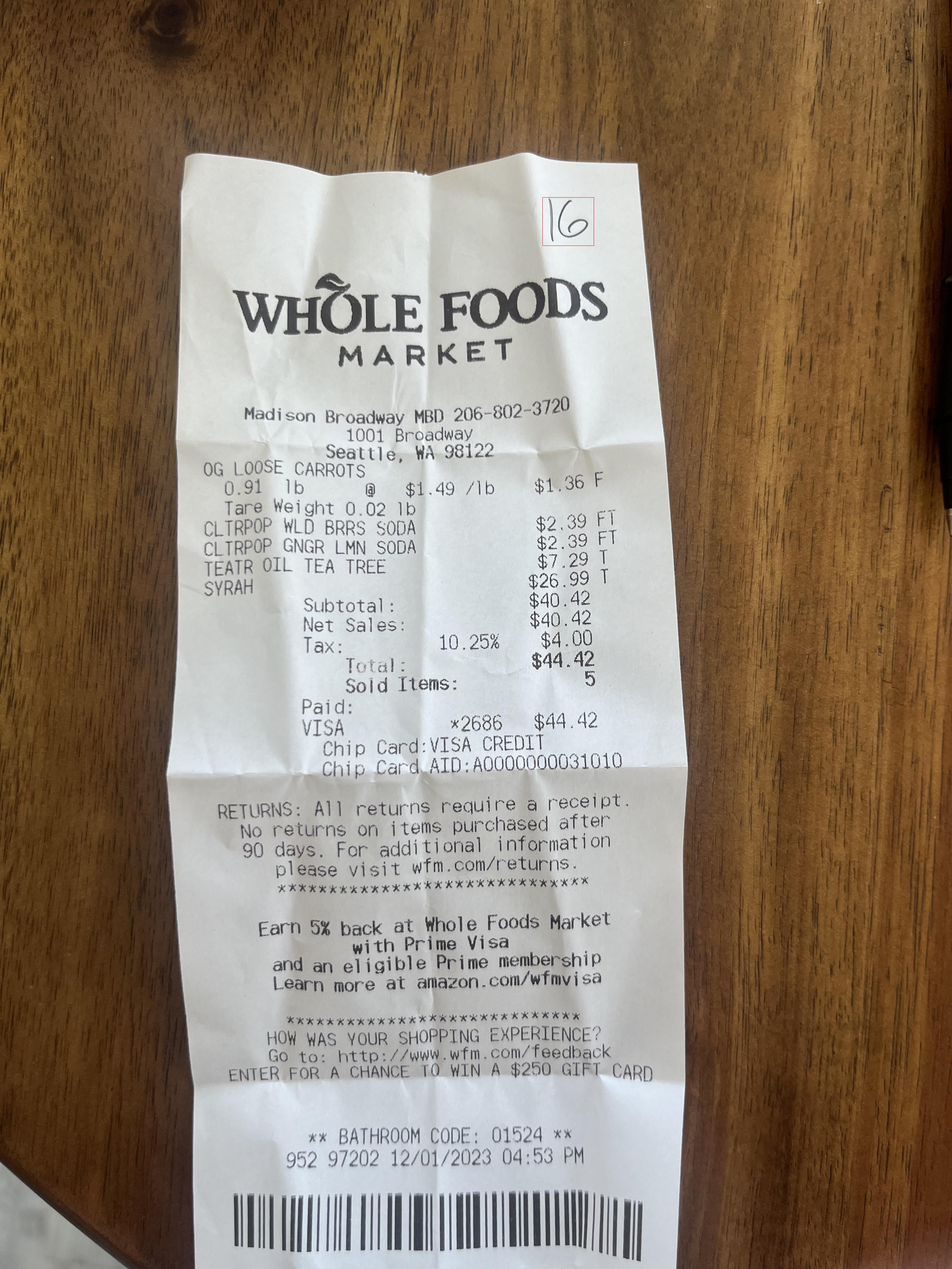
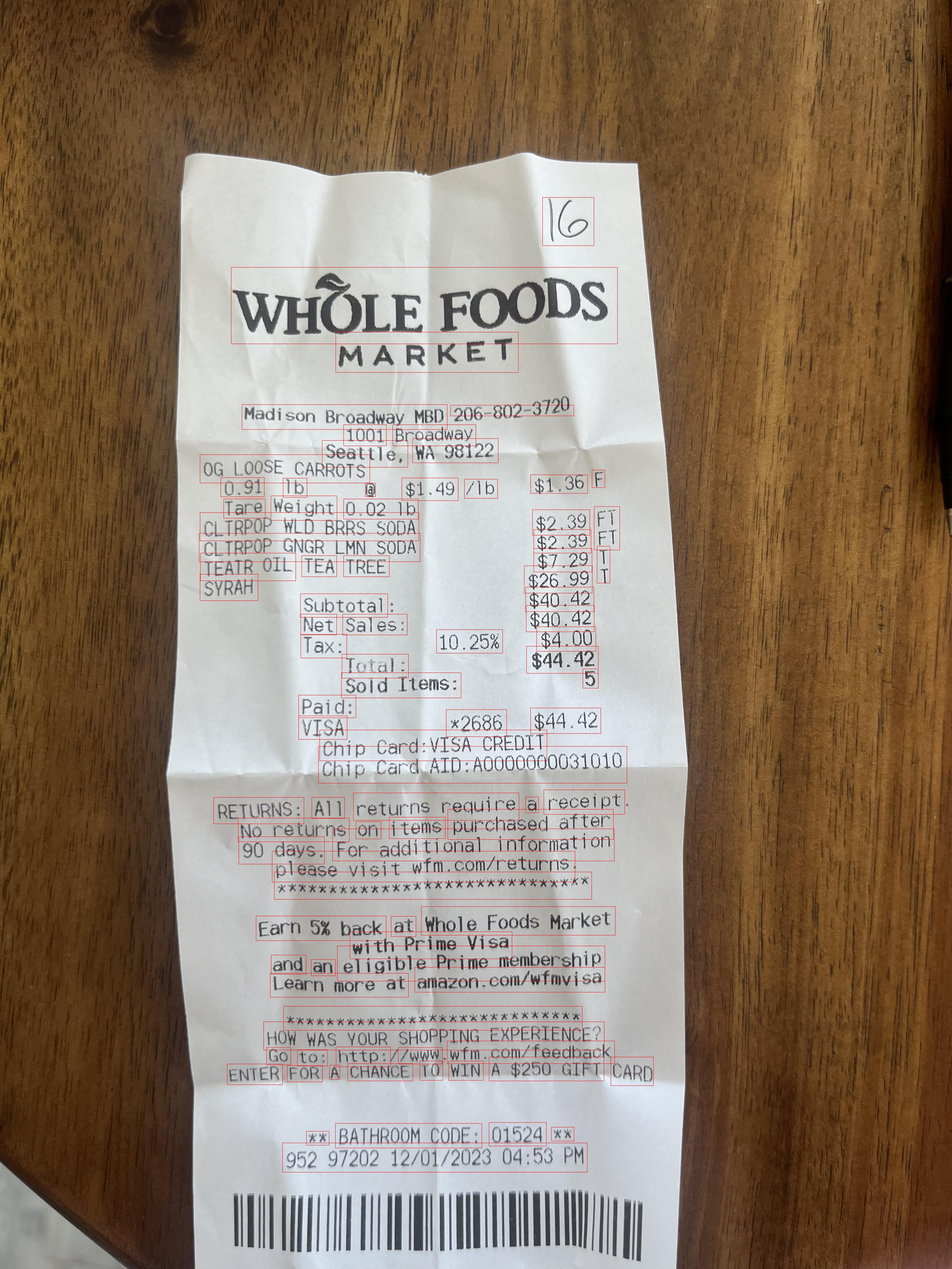
markup image with rectangles for all detected text

diff --git a/ocr_output.py b/ocr_output.py
@@ -3,32 +3,37 @@ import pandas as pd
 
 ocr = [([[1723, 627], [1886, 627], [1886, 780], [1723, 780]], 'I6', 0.6926023278564799), ([[734, 849], [1961, 849], [1961, 1092], [734, 1092]], 'WHOLE FOODS', 0.9912944037239646), ([[1066, 1055], [1646, 1055], [1646, 1183], [1066, 1183]], 'MA RKET', 0.9276532370298419), ([[768, 1285], [1420, 1285], [1420, 1364], [768, 1364]], 'Madi son Broadway MBD', 0.9078515581621903), ([[1091, 1349], [1227, 1349], [1227, 1416], [1091, 1416]], '1001', 0.9999945759773254), ([[1247, 1349], [1511, 1349], [1511, 1416], [1247, 1416]], 'Broadway', 0.7763214223013613), ([[1023, 1399], [1295, 1399], [1295, 1484], [1023, 1484]], 'Seattle,', 0.8221792681226774), ([[1310, 1393], [1582, 1393], [1582, 1470], [1310, 1470]], 'WA 98122', 0.7418562842124219), ([[635, 1444], [1174, 1444], [1174, 1534], [635, 1534]], 'OG LOOSE CARROTS', 0.7820302202819801), ([[1880, 1493], [1921, 1493], [1921, 1549], [1880, 1549]], 'F', 0.9987497663588307), ([[899, 1519], [975, 1519], [975, 1580], [899, 1580]], '1b', 0.5417117866716964), ([[1160, 1535], [1192, 1535], [1192, 1577], [1160, 1577]], '@@', 0.3166696462315215), ([[1276, 1518], [1455, 1518], [1455, 1590], [1276, 1590]], '$1.49', 0.9606942559631663), ([[1475, 1522], [1580, 1522], [1580, 1583], [1475, 1583]], '/b', 0.7436681849292875), ([[710, 1585], [842, 1585], [842, 1646], [710, 1646]], 'Tare', 0.9869464273986311), ([[860, 1575], [1070, 1575], [1070, 1653], [860, 1653]], 'Wei ght', 0.7396219402780277), ([[1091, 1585], [1328, 1585], [1328, 1649], [1091, 1649]], '0.02 Ib', 0.6065058529659472), ([[635, 1628], [1330, 1628], [1330, 1718], [635, 1718]], 'CLTRPOP WLD BRRS SOA', 0.7744172406375213), ([[1691, 1619], [1873, 1619], [1873, 1700], [1691, 1700]], '$2.39', 0.5980885346959502), ([[1887, 1609], [1968, 1609], [1968, 1747], [1887, 1747]], 'FT', 0.8685289073744793), ([[632, 1694], [1334, 1694], [1334, 1784], [632, 1784]], 'CLTRPOP _ GNGR LMN SODA', 0.6407847491676129), ([[1695, 1682], [1877, 1682], [1877, 1757], [1695, 1757]], '$2.39', 0.6508231450042852), ([[636, 1757], [939, 1757], [939, 1845], [636, 1845]], 'TEATR OIL', 0.9568020504671128), ([[958, 1765], [1069, 1765], [1069, 1832], [958, 1832]], 'TEA', 0.9992836984152771), ([[1091, 1765], [1236, 1765], [1236, 1832], [1091, 1832]], 'TREE', 0.9999274611473083), ([[1695, 1742], [1880, 1742], [1880, 1817], [1695, 1817]], '87.29', 0.38814759153439055), ([[1896, 1735], [1937, 1735], [1937, 1852], [1896, 1852]], 'T', 0.6563829537697963), ([[635, 1824], [819, 1824], [819, 1908], [635, 1908]], 'SYRAH', 0.9928380691211192), ([[1665, 1797], [1881, 1797], [1881, 1884], [1665, 1884]], '$26. 99', 0.345515826931112), ([[954, 1886], [1231, 1886], [1231, 1961], [954, 1961]], 'Subtotal', 0.9997410780243349), ([[1669, 1865], [1886, 1865], [1886, 1943], [1669, 1943]], '840.42', 0.8929394892029129), ([[955, 1951], [1069, 1951], [1069, 2017], [955, 2017]], 'Net', 0.9999848584019675), ([[1088, 1951], [1293, 1951], [1293, 2017], [1088, 2017]], 'Sales:', 0.6911776967247695), ([[1671, 1923], [1887, 1923], [1887, 2007], [1671, 2007]], '$40 . 42', 0.3565171769653759), ([[955, 2015], [1101, 2015], [1101, 2090], [955, 2090]], 'Tax:', 0.9995455145835876), ([[1386, 2000], [1596, 2000], [1596, 2075], [1386, 2075]], '10.25%', 0.4279155570005055), ([[1704, 1991], [1892, 1991], [1892, 2069], [1704, 2069]], '84,00', 0.5404590446767653), ([[1086, 2078], [1297, 2078], [1297, 2154], [1086, 2154]], 'Total:', 0.6559059985934721), ([[1672, 2053], [1900, 2053], [1900, 2139], [1672, 2139]], '844.42', 0.9373331312627403), ([[1084, 2137], [1464, 2137], [1464, 2217], [1084, 2217]], 'Soid Items:', 0.8505821381348388), ([[1851, 2125], [1900, 2125], [1900, 2186], [1851, 2186]], '5', 0.9999988079074598), ([[948, 2208], [1130, 2208], [1130, 2280], [948, 2280]], 'Paid:', 0.9999236568505492), ([[948, 2274], [1102, 2274], [1102, 2349], [948, 2349]], 'VISA', 0.9977014660835266), ([[1417, 2254], [1609, 2254], [1609, 2340], [1417, 2340]], '*2686', 0.9879894824175459), ([[1685, 2249], [1908, 2249], [1908, 2330], [1685, 2330]], '844.42', 0.7478151038946227), ([[1015, 2319], [1737, 2319], [1737, 2417], [1015, 2417]], 'Chip Card:VISA CREDIT', 0.989086163058792), ([[1011, 2371], [1991, 2371], [1991, 2488], [1011, 2488]], 'Chip Card AID: A000O0O0031010', 0.3202481727779395), ([[678, 2533], [965, 2533], [965, 2617], [678, 2617]], 'RETURNS:', 0.9997686870134789), ([[990, 2533], [1094, 2533], [1094, 2600], [990, 2600]], 'A]I', 0.13422942782424785), ([[1122, 2519], [1648, 2519], [1648, 2606], [1122, 2606]], 'returns require', 0.7274016589785881), ([[1669, 2532], [1710, 2532], [1710, 2582], [1669, 2582]], 'a', 0.994379928798228), ([[1727, 2509], [1984, 2509], [1984, 2587], [1727, 2587]], 'receipt', 0.9995463792035004), ([[756, 2599], [1109, 2599], [1109, 2674], [756, 2674]], 'No returns', 0.9572206917185868), ([[1130, 2610], [1210, 2610], [1210, 2665], [1130, 2665]], 'on', 0.9849771481109373), ([[1236, 2596], [1414, 2596], [1414, 2664], [1236, 2664]], 'items', 0.9991689315387138), ([[1422, 2571], [1948, 2571], [1948, 2667], [1422, 2667]], 'purchased after', 0.9346033168214685), ([[758, 2658], [1030, 2658], [1030, 2745], [758, 2745]], '90 days.', 0.9988848318022175), ([[1056, 2633], [1951, 2633], [1951, 2735], [1056, 2735]], 'For addi tional  information', 0.42732709729406615), ([[864, 2704], [1826, 2704], [1826, 2802], [864, 2802]], 'pTease visit Wfm. com/returns_', 0.2971849305659941), ([[871, 2770], [1879, 2770], [1879, 2857], [871, 2857]], 'Xxxrrkkrkkrxrxkxxxxxxxkrxxxkx', 0.01697864342936905), ([[813, 2910], [1226, 2910], [1226, 2988], [813, 2988]], 'Earn 5% back', 0.6528055898749742), ([[1242, 2911], [1321, 2911], [1321, 2975], [1242, 2975]], 'at', 0.9999974711900259), ([[1338, 2880], [1954, 2880], [1954, 2971], [1338, 2971]], 'Whole Foods Market', 0.9661408017539854), ([[1111, 2960], [1626, 2960], [1626, 3046], [1111, 3046]], 'with Prime Visa', 0.9127401911099553), ([[861, 3034], [972, 3034], [972, 3095], [861, 3095]], 'arid', 0.6525781154632568), ([[988, 3048], [1065, 3048], [1065, 3100], [988, 3100]], 'an', 0.9999876088490234), ([[1071, 3005], [1921, 3005], [1921, 3117], [1071, 3117]], 'eligible Prime membership', 0.8650580811591724), ([[858, 3092], [1297, 3092], [1297, 3168], [858, 3168]], 'Learn more at', 0.9909860306131345), ([[1317, 3073], [1921, 3073], [1921, 3152], [1317, 3152]], 'amazori . COM/wfmvisa', 0.48131177125693014), ([[900, 3197], [1849, 3197], [1849, 3273], [900, 3273]], 'xr*x*rrxxxxxkxkkrxxxrK*rtx*x*', 0.00128294892764146), ([[837, 3246], [1919, 3246], [1919, 3336], [837, 3336]], 'HOW WAS YOUR SHOPPING EXPERIENCE?', 0.9304054807164704), ([[846, 3328], [923, 3328], [923, 3383], [846, 3383]], 'Go', 0.8274079352175693), ([[944, 3335], [1040, 3335], [1040, 3387], [944, 3387]], 'to:', 0.9998205052141739), ([[1067, 3326], [1240, 3326], [1240, 3389], [1067, 3389]], 'http:', 0.9983856649339978), ([[1265, 3328], [1405, 3328], [1405, 3380], [1265, 3380]], '{www', 0.2472408562898636), ([[1420, 3307], [1952, 3307], [1952, 3379], [1420, 3379]], 'wfm. Comv/ feedback', 0.39428487339287704), ([[721, 3380], [897, 3380], [897, 3446], [721, 3446]], 'ENTER', 0.9999440755116866), ([[912, 3385], [1024, 3385], [1024, 3437], [912, 3437]], 'FOR', 0.9997450746446326), ([[1046, 3384], [1079, 3384], [1079, 3429], [1046, 3429]], 'A', 0.9387293739979761), ([[1104, 3379], [1311, 3379], [1311, 3434], [1104, 3434]], 'CHANCE', 0.9998099513503352), ([[1333, 3371], [1406, 3371], [1406, 3432], [1333, 3432]], 'T0', 0.44755685863828076), ([[1425, 3371], [1535, 3371], [1535, 3432], [1425, 3432]], 'WIN', 0.9971478655451932), ([[1553, 3358], [1918, 3358], [1918, 3434], [1553, 3434]], 'A $250 GIFT', 0.8905846368802651), ([[973, 3594], [1045, 3594], [1045, 3638], [973, 3638]], 'X*', 0.14129889664495676), ([[1065, 3569], [1530, 3569], [1530, 3647], [1065, 3647]], 'BATHROOM CODE :', 0.49728027908564), ([[1553, 3566], [1735, 3566], [1735, 3641], [1553, 3641]], '01524', 0.9974621683269129), ([[1751, 3581], [1823, 3581], [1823, 3625], [1751, 3625]], 'XX', 0.10281155943636394), ([[897, 3631], [1865, 3631], [1865, 3724], [897, 3724]], '952 97202 12/01/2023 04:53 PM', 0.5779247455824162), ([[1431.274028537339, 1287.9206542209442], [1819.7069484064118, 1250.8545522003772], [1822.725971462661, 1321.0793457790558], [1434.2930515935882, 1358.1454477996228]], '206-502-3720', 0.7392537316534189), ([[1685.2270311712882, 1508.1989371536683], [1866.2236883189648, 1494.5622206192877], [1866.7729688287118, 1567.8010628463317], [1685.7763116810352, 1580.4377793807123]], '$1,36', 0.6939443757155717), ([[701.3005628453517, 1517.1825890886175], [838.8896597015578, 1507.933971323671], [839.6994371546483, 1578.8174109113825], [703.1103402984422, 1588.066028676329]], '0.91', 0.9996726045893953), ([[1940.9563638994289, 3358.0683656356596], [2088.6151423623414, 3378.548550061438], [2075.043636100571, 3449.9316343643404], [1927.3848576376588, 3430.451449938562]], 'CARD', 0.6699302203168105)]
 
-how_many_extractions = None
-text = []
-confidence = []
-coordinates = []
-words = {'text':text, 'confidence':confidence, 'coordinates':coordinates}
-if how_many_extractions == None:
+def parse_ocr_data(ocr_result:list, save_file_name:str):
+    text = []
+    confidence = []
+    coordinates = []
+    words = {'text':text, 'confidence':confidence, 'coordinates':coordinates}
     how_many_extractions = len(ocr)
-for i in ocr[0:how_many_extractions+1]:
-    ocr_text = i[1]
-    ocr_confidence = i[2]
-    ocr_coordinates = (i[0][0][0], i[0][0][1], i[0][2][0], i[0][2][1])
-    if ocr_text == '' or ocr_text==None:
-        print('Text is null')
-    if ocr_confidence == '' or ocr_confidence==None:
-        print('confidence is null')
-    words['text'].append(ocr_text)
-    words['confidence'].append(ocr_confidence)
-    words['coordinates'].append(ocr_coordinates)
+    for i in ocr_result[0:how_many_extractions+1]:
+        ocr_text = i[1]
+        ocr_confidence = i[2]
+        ocr_coordinates = (i[0][0][0], i[0][0][1], i[0][2][0], i[0][2][1])
+        if ocr_text == '' or ocr_text==None:
+            print('Text is null')
+        if ocr_confidence == '' or ocr_confidence==None:
+            print('confidence is null')
+        words['text'].append(ocr_text)
+        words['confidence'].append(ocr_confidence)
+        words['coordinates'].append(ocr_coordinates)
 
-df = pd.DataFrame.from_dict(words)
-#print(df.sort_values(by=['confidence'], ascending=False).head(25))
-coords = df.loc[df['text']=='I6', 'coordinates'].item()
-print(type(coords))
+    df = pd.DataFrame.from_dict(words)
+    df.reset_index(inplace=True)
 
-img_name = '.processed_images/from_heic_IMG_4519.jpg'
-img = Image.open(img_name)
-draw = ImageDraw.Draw(img)
-draw.rectangle(coords, outline=(255, 0, 0)) # first and third elements of coordinates in tuple of ocr data
-img.save('drawn_image.jpg')
+    img_name = '.processed_images/from_heic_IMG_4519.jpg'
+    img = Image.open(img_name)
+    draw = ImageDraw.Draw(img)
+
+    for index, row in df.iterrows():
+        coords = row['coordinates']
+        draw.rectangle(coords, outline=(255, 0, 0)) # first and third elements of coordinates in tuple of ocr data
+
+    img.save(save_file_name)
+
+if __name__=='__main__':
+    save_file_name = '.processed_images/from_heic_IMG_4519_v2.jpg'
+    parse_ocr_data(ocr, save_file_name)
